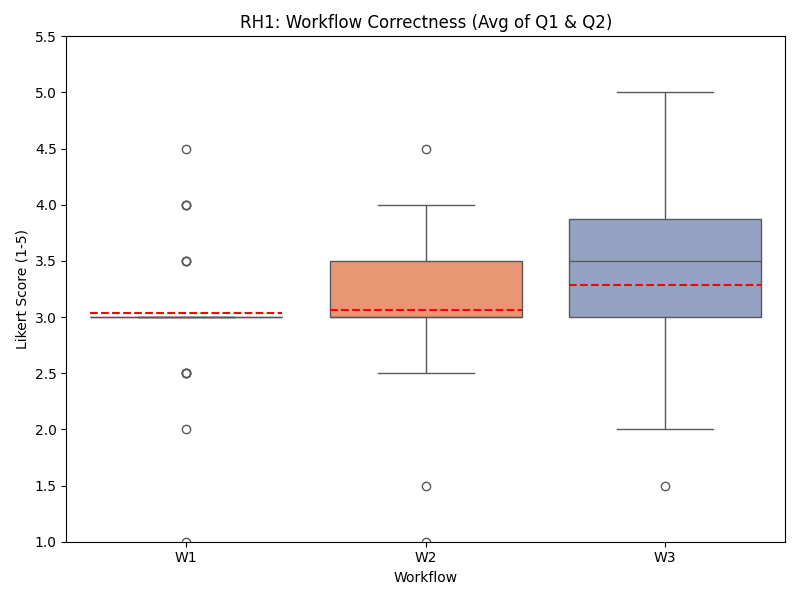
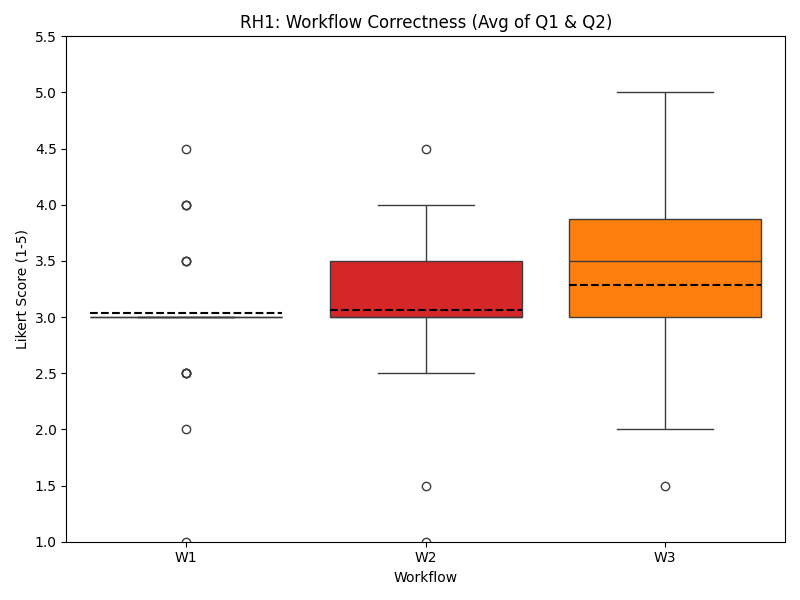
consistent plot colors

Changed region(s): [[0.6875, 0.36, 0.9688, 0.54], [0.4062, 0.42, 0.6562, 0.54], [0.125, 0.51, 0.3438, 0.54]]

diff --git a/code/utils/analyze_user_study.py b/code/utils/analyze_user_study.py
@@ -14,16 +14,16 @@ OUTPUT_DIR = "data/user_study_results"
 # -----------------------------
 WORKFLOW_ORDER = ["W1", "W2", "W3"]
 
-# pick your canonical colors once (match your current bar plot if you want)
+# Use fixed HEX codes (Matplotlib tab colors) for identical appearance everywhere
 WORKFLOW_COLORS = {
-    "W1": "green",
-    "W2": "red",
-    "W3": "orange"
+    "W1": "#2ca02c",  # tab:green
+    "W2": "#d62728",  # tab:red
+    "W3": "#ff7f0e",  # tab:orange
 }
 
-def enforce_workflow_order(series_or_col):
-    """Make workflow labels categorical so seaborn/pandas respect the same order."""
-    return pd.Categorical(series_or_col, categories=WORKFLOW_ORDER, ordered=True)
+def enforce_workflow_order(x):
+    return pd.Categorical(x, categories=WORKFLOW_ORDER, ordered=True)
+
 
 
 def load_and_prep_data():
@@ -149,12 +149,14 @@ def analyze_rh1_correctness(df):
     df_melt['Workflow'] = enforce_workflow_order(df_melt['Workflow'])
 
     sns.boxplot(
-        x='Workflow', y='Score', data=df_melt,
-        order=WORKFLOW_ORDER,
-        palette=WORKFLOW_COLORS,
-        showmeans=True, meanline=True,
-        meanprops={"color": "black", "linewidth": 1.5, "linestyle": "--"}  # optional: keep consistent too
+    x="Workflow", y="Score", data=df_melt,
+    order=WORKFLOW_ORDER,
+    palette=WORKFLOW_COLORS,
+    saturation=1,              # <-- key: prevents seaborn from muting colors
+    showmeans=True, meanline=True,
+    meanprops={"color": "black", "linewidth": 1.5, "linestyle": "--"}
     )
+
     plt.title("RH1: Workflow Correctness (Avg of Q1 & Q2)")
     plt.ylabel("Likert Score (1-5)")
     plt.ylim(1, 5.5)
@@ -219,12 +221,14 @@ def analyze_rh2_fairness(df):
         df_melt['Workflow'] = enforce_workflow_order(df_melt['Workflow'])
 
         sns.boxplot(
-            x='Workflow', y='Score', data=df_melt,
+            x="Workflow", y="Score", data=df_melt,
             order=WORKFLOW_ORDER,
             palette=WORKFLOW_COLORS,
+            saturation=1,              # <-- key: prevents seaborn from muting colors
             showmeans=True, meanline=True,
             meanprops={"color": "black", "linewidth": 1.5, "linestyle": "--"}
         )
+
         plt.title(f"RH2: Fairness ({label})")
         plt.ylim(1, 5.5)
         plt.tight_layout()
@@ -263,10 +267,17 @@ def analyze_rh3_efficiency(df):
         mapped_choices = combined_choices.map(cost_map)
         
         counts = mapped_choices.value_counts()
+        
+
         print(counts)
         
         cats = ['W1', 'W2', 'W3']
-        counts = counts.reindex(cats, fill_value=0)
+        counts = counts.reindex(WORKFLOW_ORDER, fill_value=0)
+
+        ax = counts.plot(
+            kind="bar",
+            color=[WORKFLOW_COLORS[w] for w in WORKFLOW_ORDER]
+        )
         
         # Chi-Square
         # We now have 2 observations per user, so N is effectively doubled for the test of preferences
